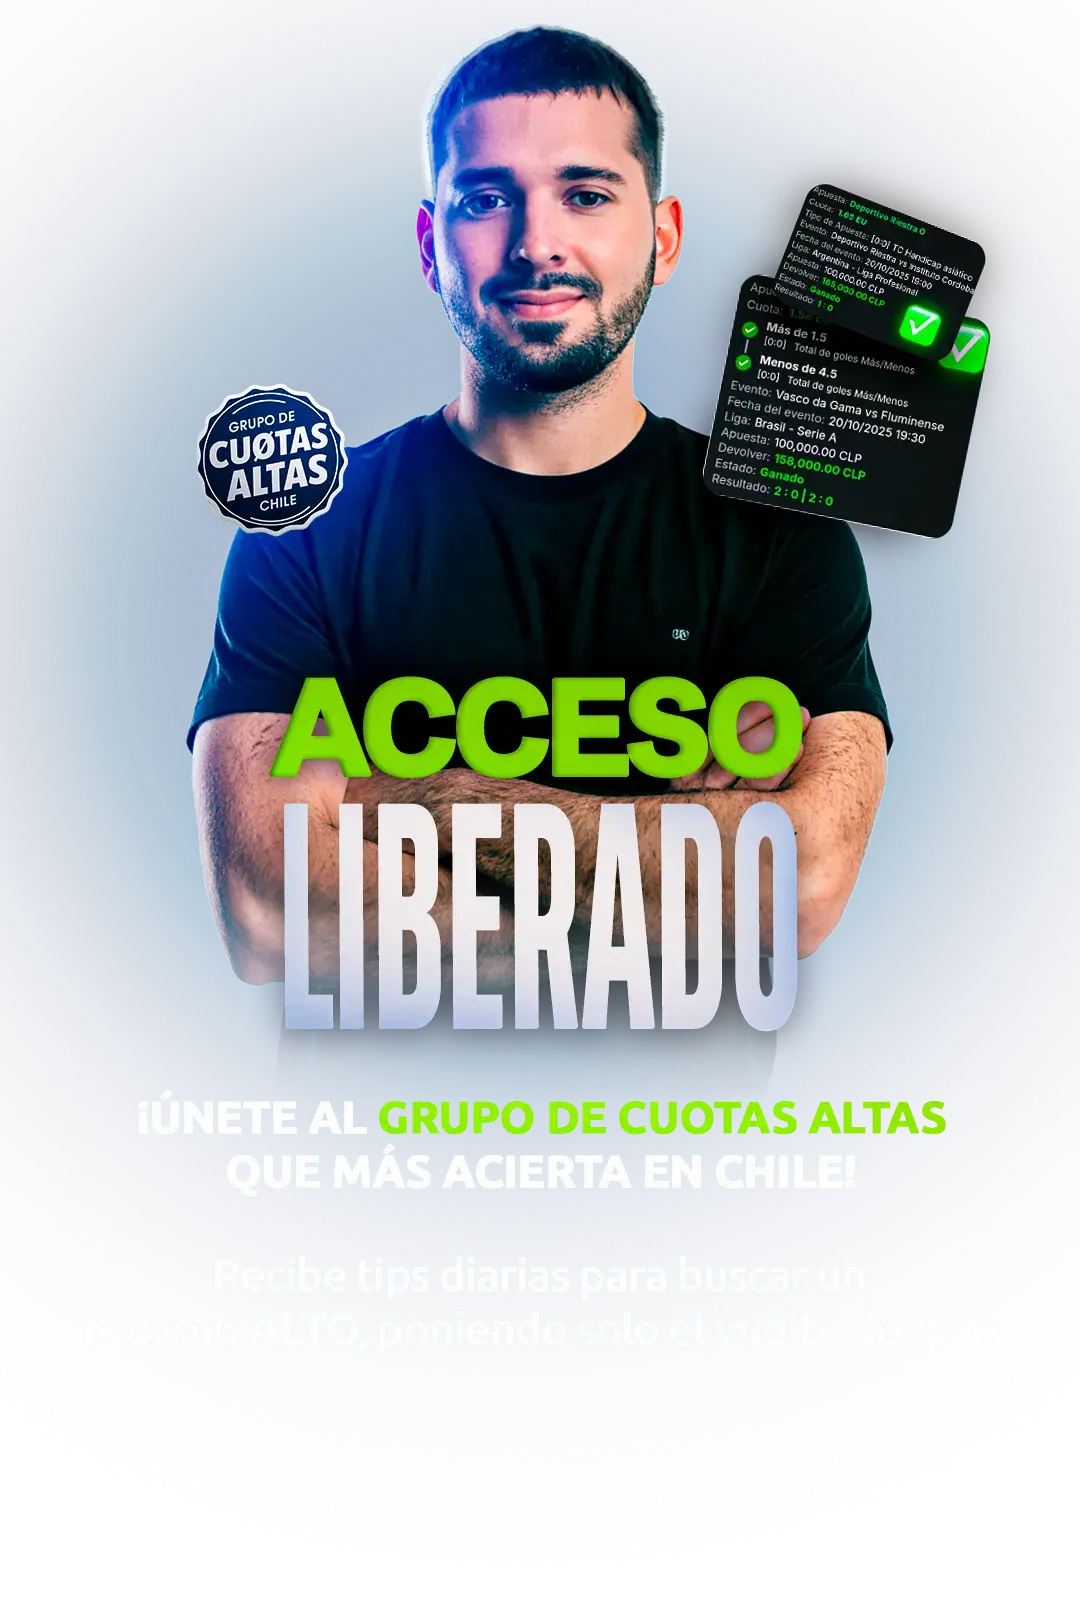
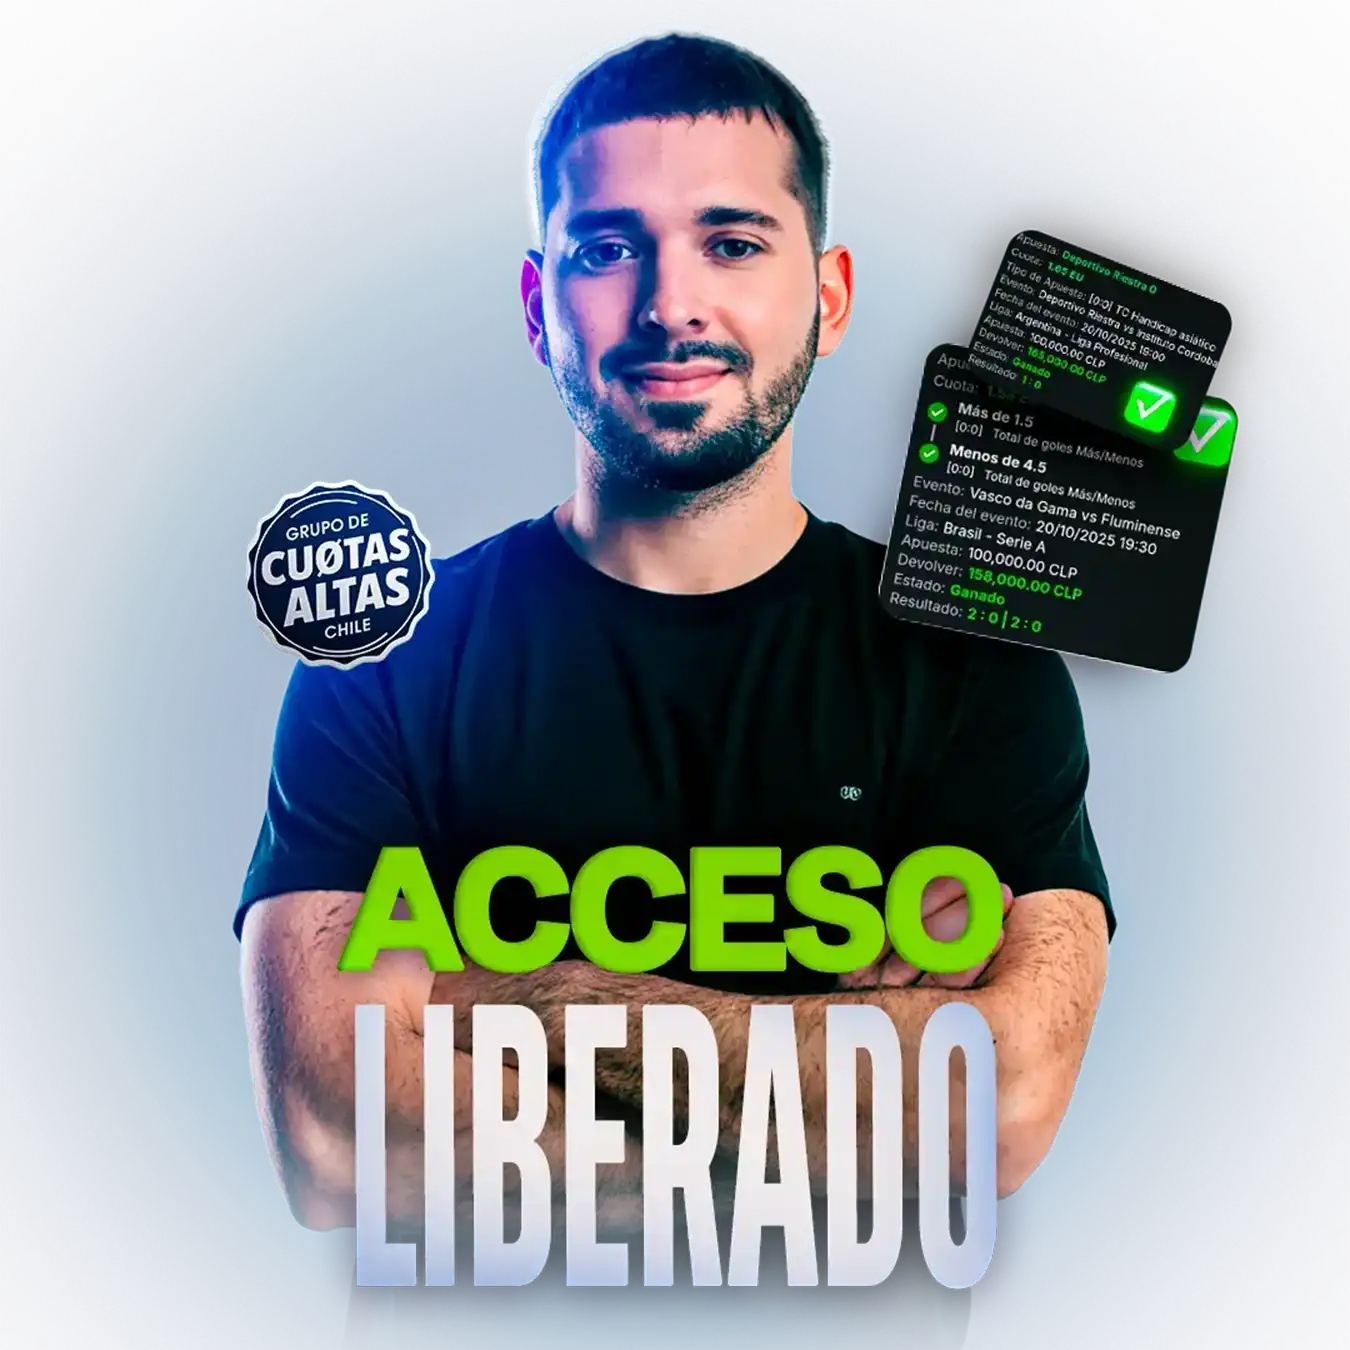
Atualiza imagem expert, reduz fontes para mobile e muda background do header para verde

diff --git a/app/bilhete-acao/page.tsx b/app/bilhete-acao/page.tsx
@@ -119,7 +119,7 @@ export default function BilheteAcaoPage() {
       `}</style>
 
       {/* HEADER - Disclaimer com cronômetro */}
-      <header className="bg-white w-full py-2 px-4 md:px-8 border-b border-gray-200">
+      <header className="bg-[#00FF88] w-full py-2 px-4 md:px-8 border-b border-gray-200">
         <div className="max-w-7xl mx-auto flex items-center justify-between gap-4">
           {/* Esquerda - Cronômetro */}
           <div className="flex items-center gap-2">
@@ -139,7 +139,7 @@ export default function BilheteAcaoPage() {
             <p className="text-black text-xs md:text-sm font-semibold">
               98% de los cupos agotados
             </p>
-            <div className="bg-blue-500 rounded-lg px-3 py-1">
+            <div className="bg-blue-600 rounded-lg px-3 py-1">
               <p className="text-white text-xs md:text-sm font-bold">
                 SOLO 3 DISPONIBLES
               </p>
@@ -161,7 +161,7 @@ export default function BilheteAcaoPage() {
         {/* Overlay escuro para contraste */}
         <div className="absolute inset-0 bg-black/40"></div>
 
-        <div className="relative z-10 max-w-5xl w-full mx-auto text-center space-y-8">
+        <div className="relative z-10 max-w-5xl w-full mx-auto text-center space-y-4 sm:space-y-6 md:space-y-8">
           {/* Imagem do Expert */}
           <motion.div
             initial={{ opacity: 0, y: 30 }}
@@ -182,7 +182,7 @@ export default function BilheteAcaoPage() {
             initial={{ opacity: 0, y: 30 }}
             animate={{ opacity: 1, y: 0 }}
             transition={{ duration: 0.8, delay: 0.2 }}
-            className="text-3xl sm:text-4xl md:text-5xl lg:text-6xl font-black leading-tight px-4 text-white"
+            className="text-2xl sm:text-3xl md:text-4xl lg:text-5xl font-black leading-tight px-4 text-white"
           >
             ÚNETE AL{' '}
             <span className="gradient-text-animated">
@@ -196,7 +196,7 @@ export default function BilheteAcaoPage() {
             initial={{ opacity: 0, y: 30 }}
             animate={{ opacity: 1, y: 0 }}
             transition={{ duration: 0.8, delay: 0.4 }}
-            className="text-lg sm:text-xl md:text-2xl text-gray-200 leading-relaxed px-4 max-w-4xl mx-auto"
+            className="text-base sm:text-lg md:text-xl text-gray-200 leading-relaxed px-4 max-w-4xl mx-auto"
           >
             Recibe todas las <span className="font-bold">oportunidades únicas</span> de supercuotas, para buscar un{' '}
             <span className="font-bold">retorno alto</span>, colocando solo el{' '}
